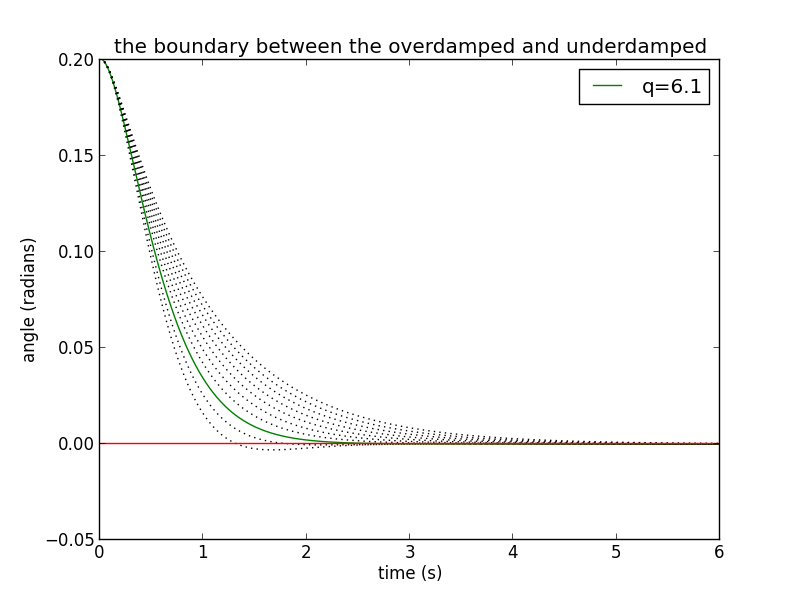
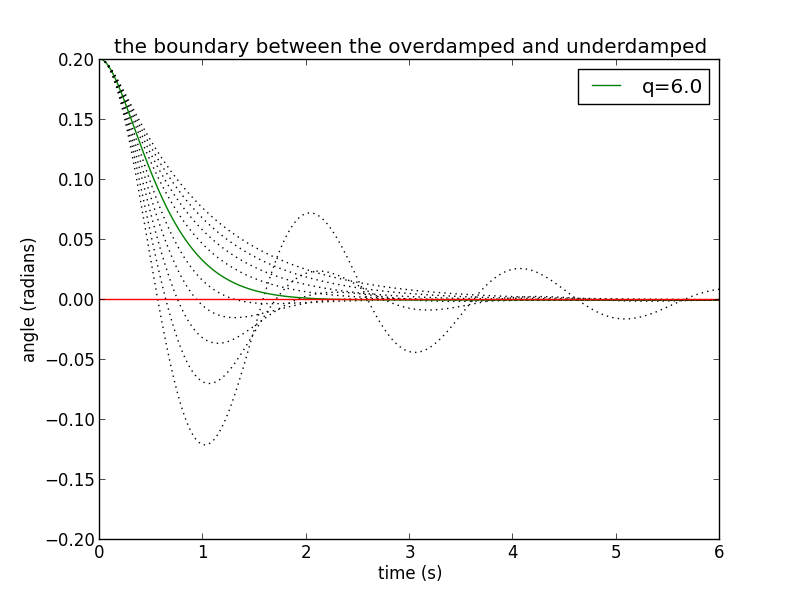
Chapter III

diff --git a/3/3_6/3_6.py b/3/3_6/3_6.py
@@ -2,7 +2,7 @@
 """
 Created on Wed Jan 20 19:32:31 2016
 Locate the boundary between the overdamped and underdamped regimes, 
-using Euler-Cromer.
+using Euler-Cromer method.
 @author: nightwing
 """
 
@@ -35,7 +35,7 @@ def DAMPED(Q):
     return [time,angle]    
 
 #------------------caculate----------------
-for q in linspace(5,10,10):
+for q in linspace(1,10,10):
     damped_pendulum.append(DAMPED(q))
 
 #------------------graph------------------    
@@ -43,11 +43,11 @@ plt.title("the boundary between the overdamped and underdamped")
 plt.xlabel("time (s)")
 plt.ylabel("angle (radians)")
 for i in range(len(damped_pendulum)):
-    if i == 2:
-        plt.plot(damped_pendulum[i][0],damped_pendulum[i][1],"g-",label="q=6.1")
+    if i == 5:
+        plt.plot(damped_pendulum[i][0],damped_pendulum[i][1],"g-",label="q=6.0")
     else:    
         plt.plot(damped_pendulum[i][0],damped_pendulum[i][1],"k:")
 plt.plot([0,t_end],[0,0],"r-",linewidth=1)
-plt.ylim(-0.05,0.2)
+plt.ylim(-0.2,0.2)
 plt.legend()
 plt.show()
